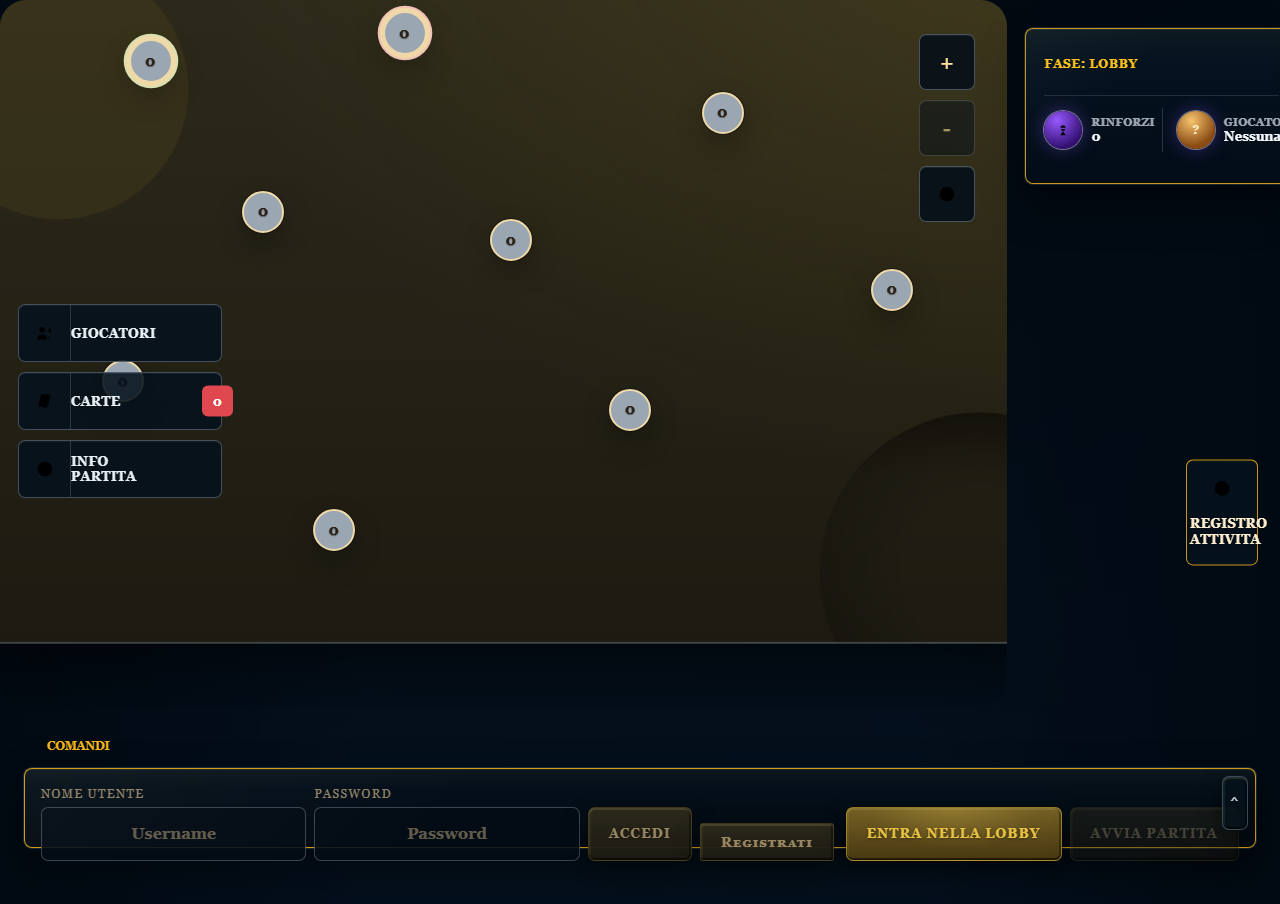
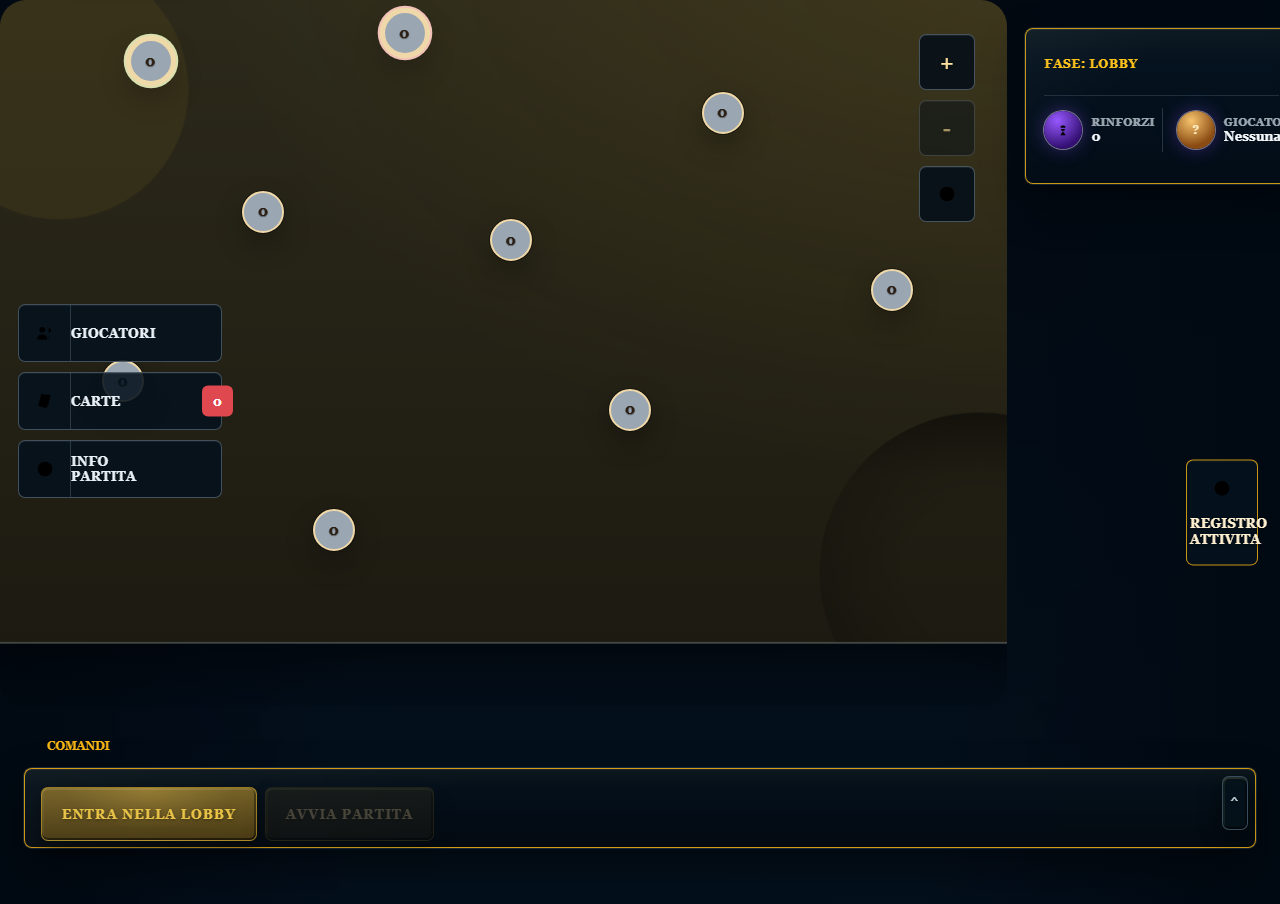
Require auth for legacy game reads
Require authenticated game-read access for legacy records, add regression coverage, and update release metadata to 0.1.020.

Pull request: Require auth for legacy game reads
Summary:
- Require authentication before returning game state or event streams for legacy records without a recorded creator.
- Add regression coverage for unauthenticated state/events reads and authenticated legacy reads.
- Update legacy HTTP and E2E coverage so protected game routes are exercised with authenticated sessions.
- Bump release metadata to 0.1.020.

Validation:
- npm run test:all:e2e (passes: build, React tests, unit/regression tests, gameplay tests, and 99 E2E tests)
- npm run test:e2e -- e2e/00-visual/main-screen.spec.ts e2e/layout/main-layout.spec.ts (passes after snapshot update)
- npm run test:gameplay -- tests/gameplay/regression/game-read-auth-boundary.test.cts tests/gameplay/regression/authorization-rules.test.cts (passes; runner executes registered gameplay suite)
- npm run release:check (passes)
- npx prettier --check CHANGELOG.md shared/version-manifest.cts backend/server.cts scripts/run-gameplay-tests.cts tests/gameplay/regression/authorization-rules.test.cts tests/gameplay/regression/game-read-auth-boundary.test.cts (passes)
- git diff --check (passes)

Notes:
- Authenticated legacy fallback is preserved intentionally.
- This public PR was explicitly authorized so GitHub checks and review can run before merge.

Changed region(s): [[0.0312, 0.8673, 0.9375, 0.9602]]

diff --git a/e2e/00-visual/main-screen.spec.ts b/e2e/00-visual/main-screen.spec.ts
@@ -1,10 +1,16 @@
 const { test, expect } = require("@playwright/test");
-const { preferCommandTheme, resetGame } = require("../support/game-helpers");
+const {
+  preferCommandTheme,
+  registerAndLogin,
+  resetGame,
+  uniqueUser
+} = require("../support/game-helpers");
 
 test("battlefield layout matches the baseline", async ({ page }) => {
   test.slow();
   const resetPayload = await resetGame(page);
   const gameId = resetPayload?.state?.gameId;
+  await registerAndLogin(page, uniqueUser("visual_main"));
   await preferCommandTheme(page);
   await page.setViewportSize({ width: 1280, height: 960 });
   await page.goto(`/game/${encodeURIComponent(gameId)}`);

diff --git a/e2e/layout/main-layout.spec.ts b/e2e/layout/main-layout.spec.ts
@@ -1,9 +1,10 @@
 const { test, expect } = require("@playwright/test");
-const { resetGame } = require("../support/game-helpers");
+const { registerAndLogin, resetGame, uniqueUser } = require("../support/game-helpers");
 
 test("main layout exposes core regions", async ({ page }) => {
   const resetPayload = await resetGame(page);
   const gameId = resetPayload?.state?.gameId;
+  await registerAndLogin(page, uniqueUser("layout_main"));
   await page.goto(`/game/${encodeURIComponent(gameId)}`);
 
   await expect(page.getByTestId("app-shell")).toBeVisible();

diff --git a/CHANGELOG.md b/CHANGELOG.md
@@ -2,6 +2,10 @@
 
 NetRisk uses the application version from `shared/version-manifest.cts` as the release source of truth. Every merge to `main` must include a new app version and a changelog entry for that version.
 
+## 0.1.020 - 2026-05-13
+
+- Required authenticated game-read access before returning state or event streams for legacy games without a recorded creator.
+
 ## 0.1.019 - 2026-05-13
 
 - Updated the grouped npm runtime, React, testing, linting, and build-tool dependencies.